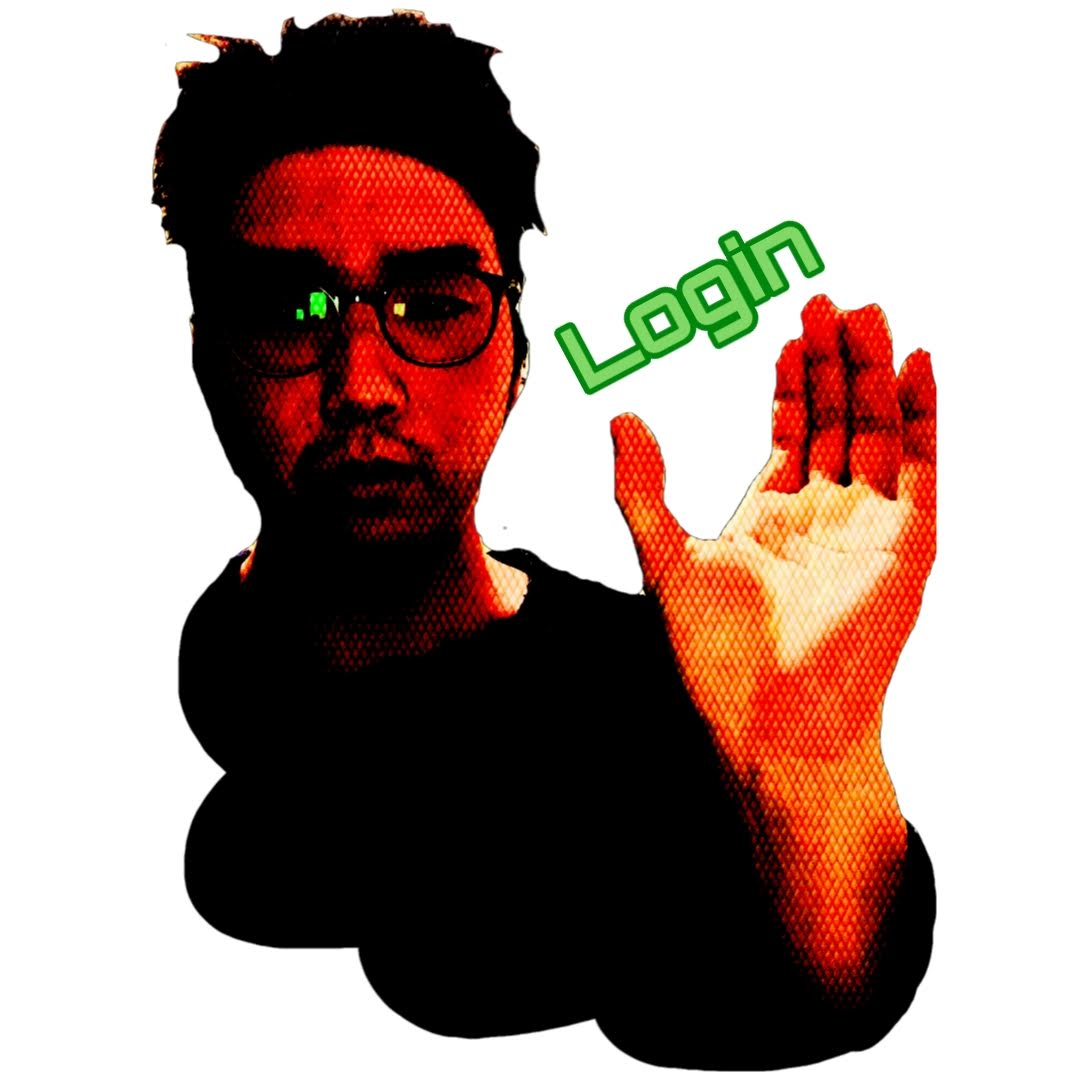
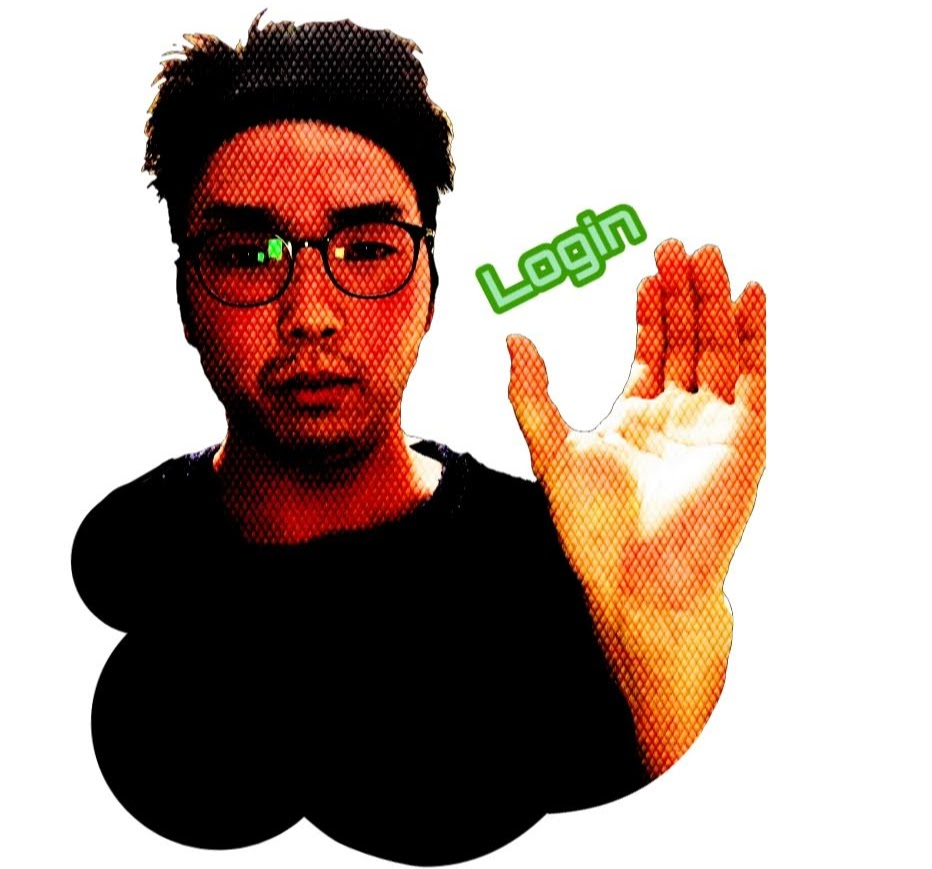
アイコン画像の明度を上げた

diff --git a/src/main/java/com/example/repository/QuestionsRepository.java b/src/main/java/com/example/repository/QuestionsRepository.java
@@ -29,12 +29,12 @@ public class QuestionsRepository {
 		question.setName(rs.getString("name"));
 		question.setComment(rs.getString("comment"));
 		String postDate = String.valueOf(rs.getTimestamp("post_date"));
-		String year = postDate.substring(0, 4) + "/";
-		String month = postDate.substring(5, 7) + "/";
-		String day = postDate.substring(8, 10) + " ";
-		String hour = Integer.parseInt(postDate.substring(11, 13))+":";
+		String year = postDate.substring(0, 4);
+		String month = postDate.substring(5, 7);
+		String day = postDate.substring(8, 10);
+		String hour = postDate.substring(11, 13);
 		String minutes = postDate.substring(14, 16);
-		question.setPostDate(year + month + day + hour + minutes);
+		question.setPostDate(year + "/" + month + "/" + day + " " + hour + ":" + minutes);
 		return question;
 	};
 
